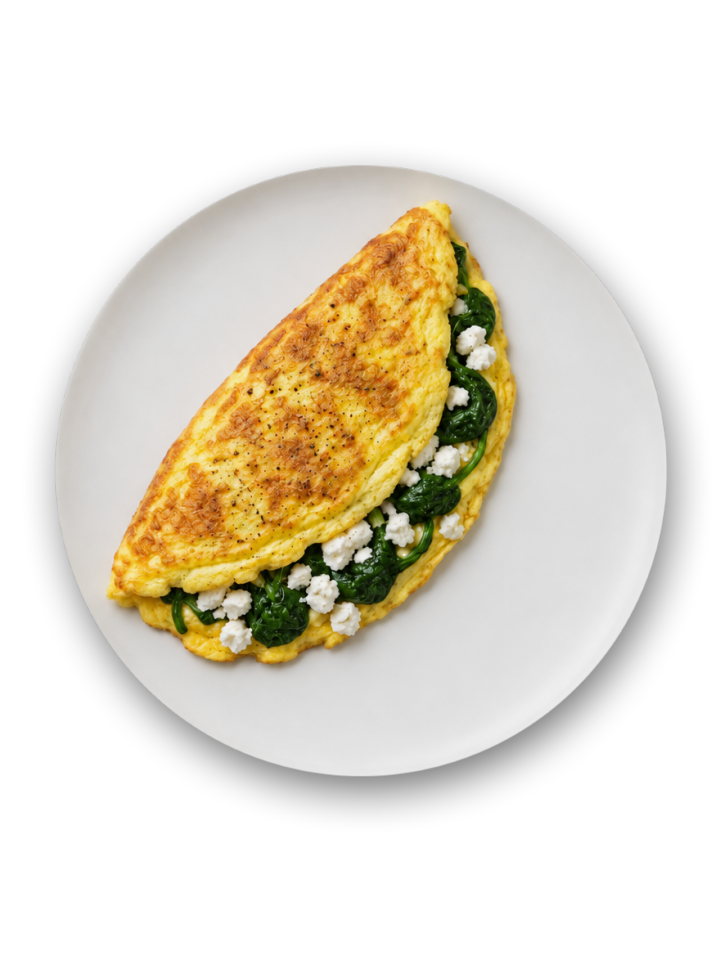
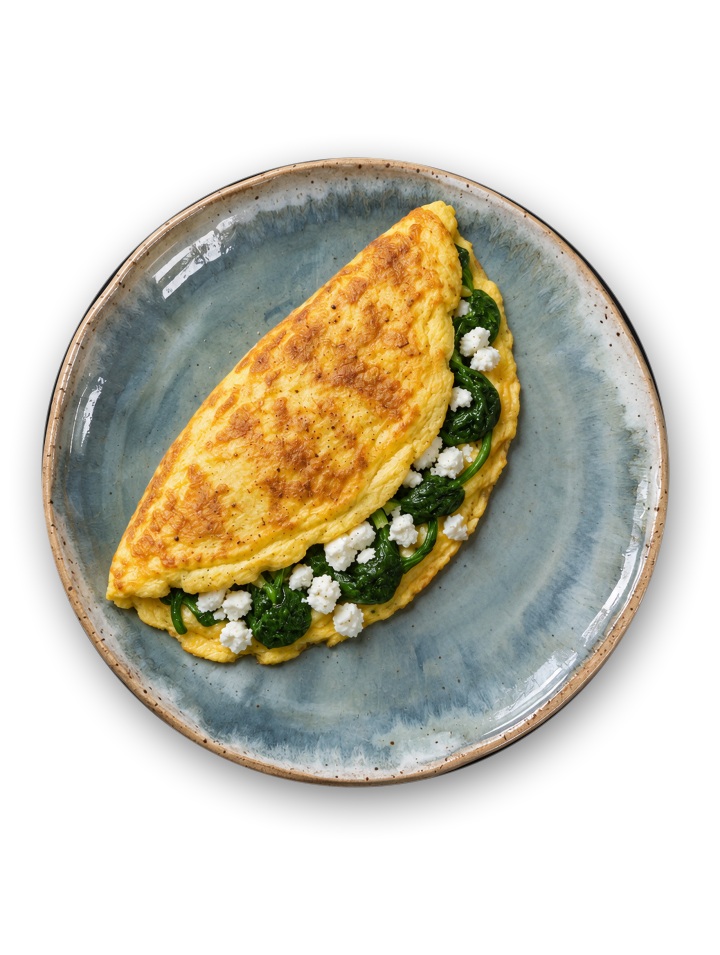
New handmade ceramic plates for syrnyky, toast, pasta and omelette, plated steps cut out on a transparent background

diff --git a/src/data/swipe.ts b/src/data/swipe.ts
@@ -15,7 +15,7 @@ export type SwipeRecipe = {
 const syrnyky: SwipeRecipe = {
   id: 'syrnyky',
   name: "Сирники",
-  hero: require('../../assets/recipes/syrnyky/plate3.webp'),
+  hero: require('../../assets/recipes/syrnyky/plate3.png'),
   portion: "1 порція · 4 шт",
   price: "≈32 ₴",
   lead: "Зовні хрусткі, всередині ніжні. Головне тут вода: чим сухіший сир і поверхня, тим краща скоринка.",
@@ -62,9 +62,9 @@ const syrnyky: SwipeRecipe = {
     oven1: { src: require('../../assets/recipes/syrnyky/oven1.webp') },
     oven2: { src: require('../../assets/recipes/syrnyky/oven2.webp') },
     oven3: { src: require('../../assets/recipes/syrnyky/oven3.webp'), heat: 0.4 },
-    plate1: { src: require('../../assets/recipes/syrnyky/plate1.webp'), heat: 0.35 },
-    plate2: { src: require('../../assets/recipes/syrnyky/plate2.webp'), heat: 0.25 },
-    plate3: { src: require('../../assets/recipes/syrnyky/plate3.webp'), heat: 0.2 },
+    plate1: { src: require('../../assets/recipes/syrnyky/plate1.png'), heat: 0.35 },
+    plate2: { src: require('../../assets/recipes/syrnyky/plate2.png'), heat: 0.25 },
+    plate3: { src: require('../../assets/recipes/syrnyky/plate3.png'), heat: 0.2 },
     tray1: { src: require('../../assets/recipes/syrnyky/tray1.webp') },
   },
   base: [
@@ -186,7 +186,7 @@ const syrnyky: SwipeRecipe = {
 const tost: SwipeRecipe = {
   id: 'tost',
   name: "Тости з авокадо",
-  hero: require('../../assets/recipes/tost/plate3.webp'),
+  hero: require('../../assets/recipes/tost/plate3.png'),
   portion: "1 порція · 2 тости",
   price: "≈55 ₴",
   lead: "Хрусткий хліб і ніжне авокадо. Секрет у контрасті: тост має хрустіти, а авокадо лишатися шматочками, а не пюре.",
@@ -226,9 +226,9 @@ const tost: SwipeRecipe = {
     cut: { src: require('../../assets/recipes/tost/cut.webp') },
     p0: { src: require('../../assets/recipes/tost/p0.webp'), heat: 0.25 },
     p1: { src: require('../../assets/recipes/tost/p1.webp'), heat: 0.85 },
-    plate1: { src: require('../../assets/recipes/tost/plate1.webp'), heat: 0.35 },
-    plate2: { src: require('../../assets/recipes/tost/plate2.webp') },
-    plate3: { src: require('../../assets/recipes/tost/plate3.webp') },
+    plate1: { src: require('../../assets/recipes/tost/plate1.png'), heat: 0.35 },
+    plate2: { src: require('../../assets/recipes/tost/plate2.png') },
+    plate3: { src: require('../../assets/recipes/tost/plate3.png') },
     t1: { src: require('../../assets/recipes/tost/t1.webp') },
     t2: { src: require('../../assets/recipes/tost/t2.webp'), heat: 0.6, glow: true },
     t3: { src: require('../../assets/recipes/tost/t3.webp'), heat: 0.7 },

diff --git a/src/components/Cover.tsx b/src/components/Cover.tsx
@@ -48,7 +48,7 @@ const HERO_CUT: Record<string, number> = {
   oatmeal: require('../../assets/recipes/oatmeal/cut.png'),
 };
 // Height of each cut-out plate against its width (the photo plates are seen at a slight angle).
-const HERO_ASPECT: Record<string, number> = { pasta: 1, syrnyky: 0.91, tost: 0.93, oatmeal: 0.98 };
+const HERO_ASPECT: Record<string, number> = { pasta: 1, syrnyky: 0.92, tost: 0.93, omlet: 1, oatmeal: 0.98 };
 
 const LEVEL: Record<string, number> = { легко: 1, середньо: 3, складно: 5 };
 
